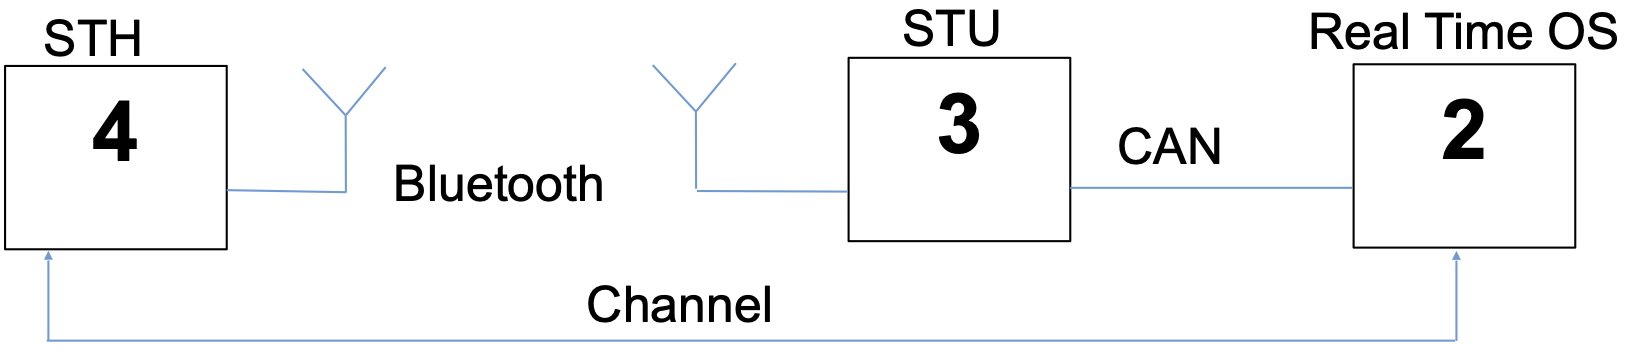
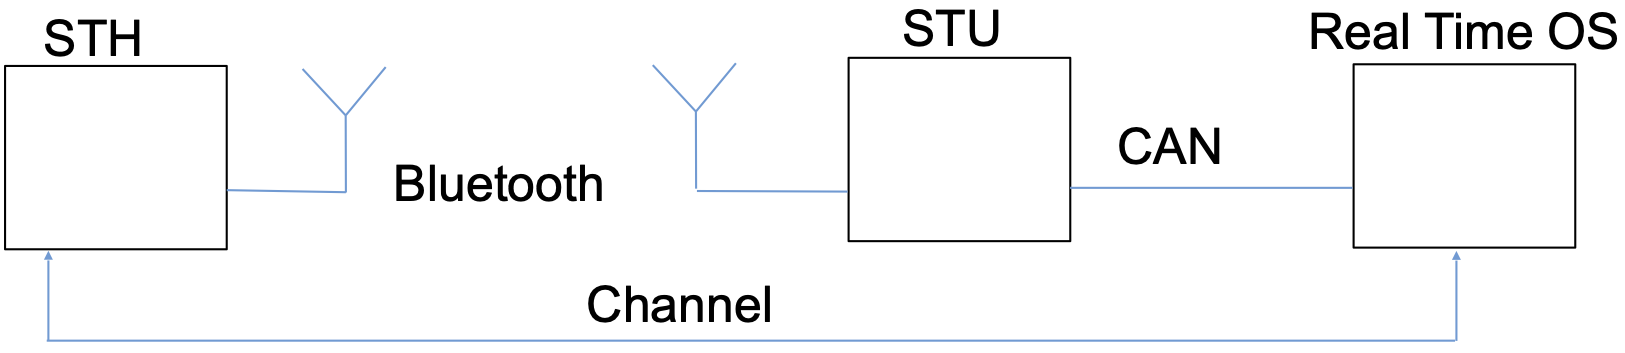
Protocol: minor textchanges on 1-2 points, moved reserved bits description to introduction, removed the numbers in the end_to_end_communication.png

Changed region(s): [[0.5538, 0.2493, 0.6154, 0.4363], [0.0308, 0.2805, 0.0923, 0.4674], [0.8923, 0.2805, 0.9231, 0.4674]]

diff --git a/Protocol.md b/Protocol.md
@@ -48,6 +48,10 @@ This design requires that each message identifier must be unique (each sender ha
 
 The priority-based concept of messages is a key feature of the MyTooliT network protocol. The protocol uses CAN 2.0, Bluetooth and other data link layer protocols to transport messages between end nodes. Thus, MyTooliT transport messages between end nodes over diverse data link protocols. The flow control is managed by the prioritization of messages, the end-to-end-communication and by limiting the overall traffic to 40%/60% of the total bandwidth.
 
+### Reserved Bits
+
+Reserved Bits must be transmitted as `0`. This is required for compatibility.
+
 ## Protocol Specification
 
 Each CAN 2.0 frame consists of
@@ -61,7 +65,7 @@ The following figure shows the essential parts of an extended CAN 2.0 frame:
 
 | Identifier | DLC    | Payload     |
 | ---------- | ------ | ----------- |
-| 29 Bits    | 4 Bits | 0 – 7 Bytes |
+| 29 Bits    | 4 Bits | 0 – 8 Bytes |
 
 The
 
@@ -77,13 +81,13 @@ The
 
 The following table describes the identifier field.
 
-| Field    | Purpose                                                                                                                                                                       |
-| -------- | ----------------------------------------------------------------------------------------------------------------------------------------------------------------------------- |
-| V        | Version number <br> • Must be `0` or the frame will be discarded                                                                                                              |
-| Command  | Command to be executed or acknowledged                                                                                                                                        |
-| R1/R2    | Reserved                                                                                                                                                                      |
-| Sender   | Number of the original sender (frames may hop) <br> • `0` Not allowed                                                                                                         |
-| Receiver | Number of the target receiver (frames may hop) <br> • `0` broadcasts at field bus (local network) with ACK <br> • `0x1F` broadcasts at field d bus(local network) without ACK |
+| Field    | Purpose                                                      |
+| -------- | ------------------------------------------------------------ |
+| V        | Version number <br> • Must be `0` or the frame will be discarded |
+| Command  | Command to be executed or acknowledged                       |
+| R1/R2    | Reserved                                                     |
+| Sender   | Number of the original sender (frames may hop) <br> • `0` Not allowed |
+| Receiver | Number of the target receiver (frames may hop) <br> • `0` broadcasts at field bus (local network) with ACK <br> • `0x1F` broadcasts at field bus(local network) without ACK |
 
 ### Command
 
@@ -144,7 +148,7 @@ The payload transports user data and/or sub-payloads.
 
 ### Startup an Backup Strategy
 
-This is currently not implemented. CAN transmits at 1 MBit gross and Bluetooth transmits the payload at 1Mbit net. Note, that Bluetooth is a CSMA/CD protocol that will cause jitter without taking any other actions. Collisions also reduce the total bandwidth.
+This is currently not implemented. CAN transmits at 1 MBit gross (gross bitrate: bitrate including physical protocol overhead) and Bluetooth transmits the payload at 1Mbit net (net bitrate: bitrate excluding physical protocol overhead). Note, that Bluetooth is a CSMA/CD protocol that will cause jitter without taking any other actions. Collisions also reduce the total bandwidth.
 
 ### Transmission Speed
 
@@ -158,8 +162,9 @@ Bluetooth supports a net bandwidth of about 700 kBit if each frame is 255 bytes 
 
 ### CAN 2.0
 
-The transmission speed should be aligned to a maximum of 40% of the total bandwidth. However, in any case there must not be any higher utilization than 60% of the overall bandwidth. In the case of fair message distribution with many nodes and many sporadic messages, the limit should be a utilization of 40%. In cases with many permanent messages the limit may be set to 60%. The 40% utilization for CAN2.0 with bit stuffing is calculated as follows:
+The transmission speed should be aligned to a maximum of 40% of the total bandwidth. However, in any case there must not be any higher utilization than 60% of the overall bandwidth. In the case of fair message distribution with many nodes and many sporadic messages, the limit should be a utilization of 40%. In cases with many permanent messages the limit may be set to 60%.
 
+The 40% utilization for CAN2.0 with bit stuffing is calculated as follows:
 $$
 U = \frac{m·79+ \sum_{m=0}^{m} \left( 8·p_m + \lfloor{p_m·\frac{8}{5}} \rfloor \right)}{B}
 $$
@@ -211,7 +216,3 @@ Alarm messages – they will be periodically repeated until muted or alarm off e
 Sporadic messages trigger on demand e.g. setting a program status word requires a request and an acknowledgement. The acknowledgement and the request are sporadic messages.
 
 Sporadic messages should have a reserved bandwidth of at least 10% (in an alarm shower case, the alarm messages will be prioritized). An overload case must be handled at the application level e.g. turn off all streaming messages and go to a graceful degradation state or a fail-save state. Note that time triggered communication eliminates such cases because each message transmission is pre-scheduled.
-
-### Reserved Bits
-
-Reserved Bits must be transmitted as `0`. This is required for compatibility.
